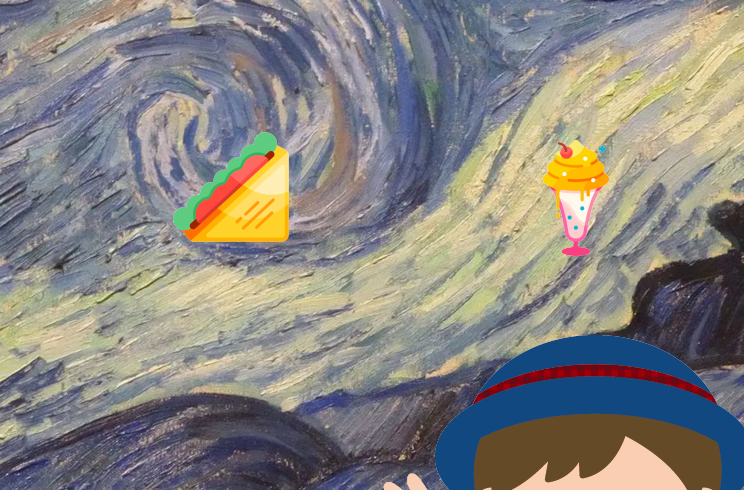
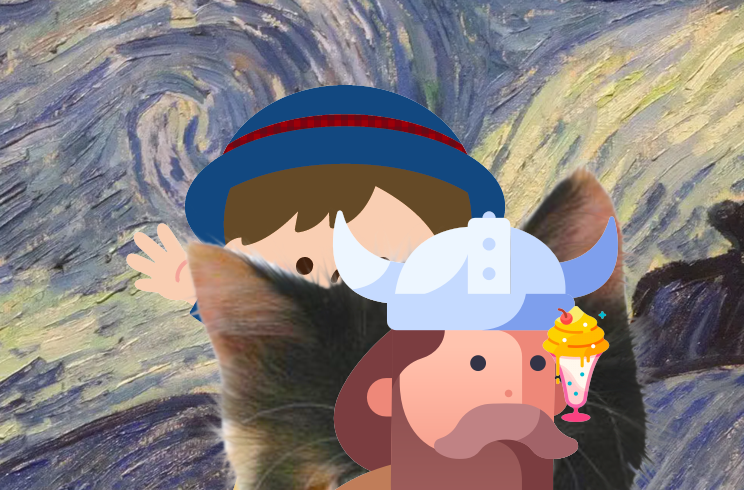
.

diff --git a/pkg/experiments/settings.py b/pkg/experiments/settings.py
@@ -50,23 +50,23 @@ templates = {
             'pos_w': 0
         },
         'person': {
-            'pos_h': 300,
-            'pos_w': 300
+            'pos_h': 50,
+            'pos_w': 50,
         },
         'animal': {
-            'pos_h': 1024,
-            'pos_w': 1024
+            'pos_h': 100,
+            'pos_w': 100
         },
         'neck': {
-            'pos_h': 1222,
-            'pos_w': 1222
+            'pos_h': 200,
+            'pos_w': 200
         },
         'leftEye': {
-            'pos_h': 134,
+            'pos_h': 300,
             'pos_w': 512
         },
         'rightEye': {
-            'pos_h': 123,
+            'pos_h': 500,
             'pos_w': 167
         },
         'mouth': {
